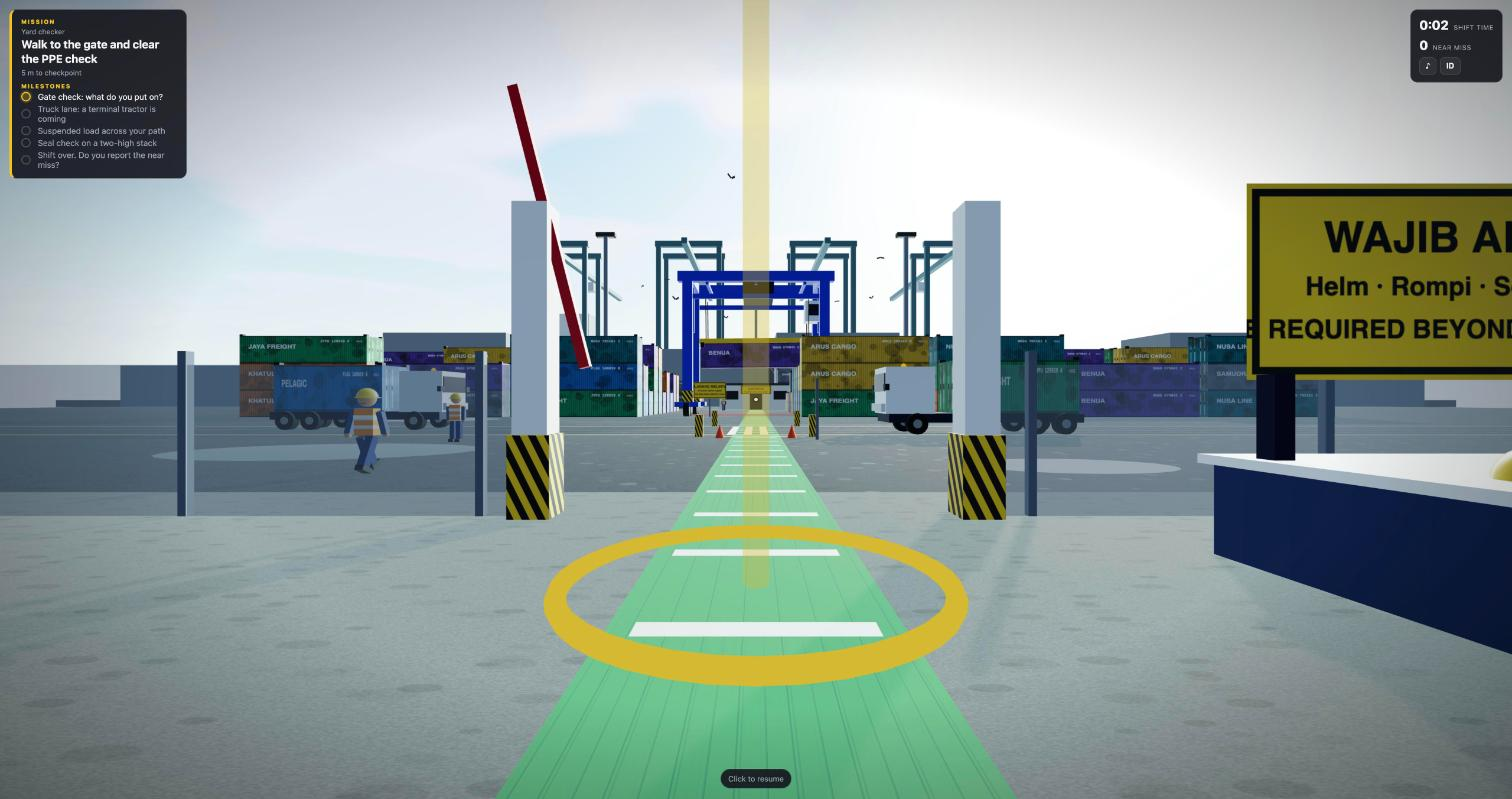
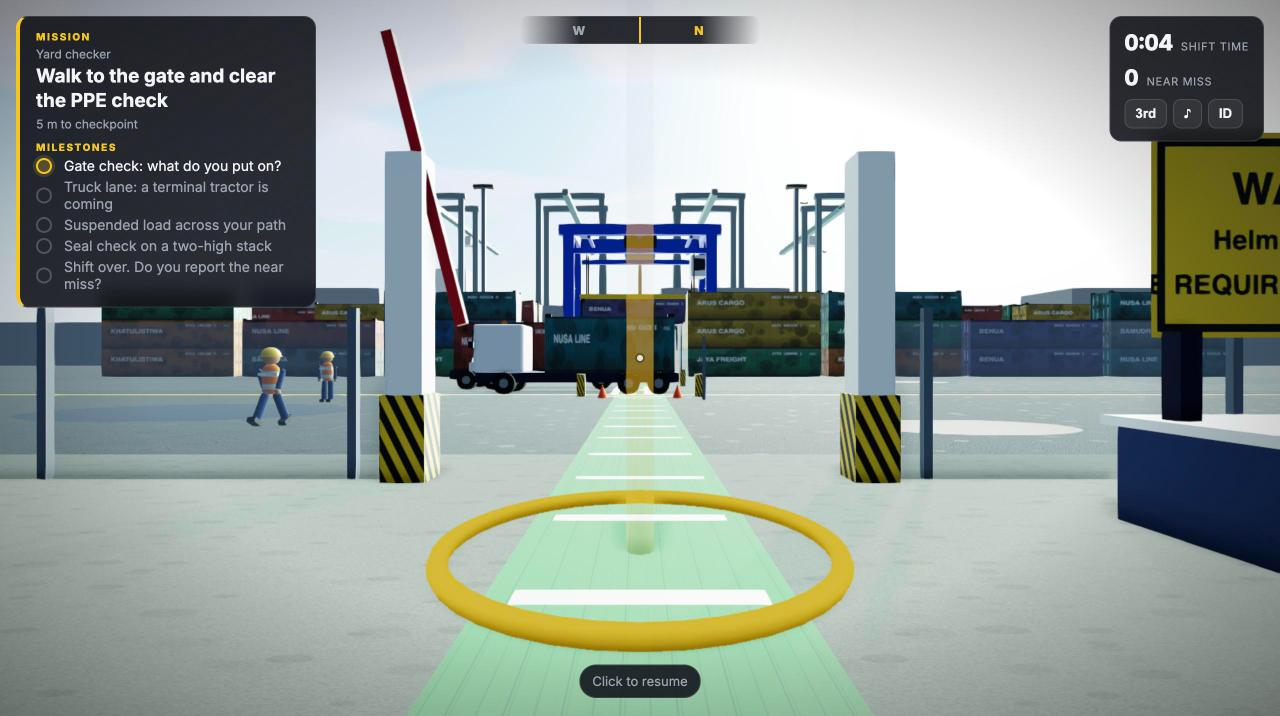
Refresh hero screenshots after cinematic pass; document post stack

diff --git a/devpost/checklist.md b/devpost/checklist.md
@@ -84,6 +84,7 @@ Build mode: fast
 - App map generated at `devpost/app-map.html` (reference route, not toured interactively). Activity: focused alternative prepared — the "content as data, behaviour as a state machine" decision with evidence from slice 4. Reflection question not yet offered. Learner has not confirmed the wrap-up; nothing is claimed as learned.
 
 ## Revisions
+- Learner: "looks like Roblox". Cinematic pass: GTAO + SMAA post stack, instanced container frames (posts/rails), capsule-limbed workers, asphalt normal map, rounded truck cab with headlights, FOV 64, film grain. Bloom tried and reverted to opt-in (whited out the sky).
 - Learner asked for a third-person view option: body rig follows the player, orbit camera, V key + HUD button, persisted in localStorage. Hidden during replays. Crosshair hidden in third person.
 - Slices 1–3 were built in one session by the agent from the approved spec; headless verification replaced the per-slice learner check.
 - After slice 3 the learner asked for: role selection with different flows, interaction beyond walking (keys to perform actions), a richer interface (mission/milestones), bigger decision text, sky, faces and limb animation, port sounds, birds, a better sun, a landing page in the style of modern product sites, and fuller documentation. Scope, PRD and spec were updated; slices 4–6 added.

diff --git a/docs/ARCHITECTURE.md b/docs/ARCHITECTURE.md
@@ -64,10 +64,13 @@ DOM only. Mission panel (role, objective, distance, milestone list), status (tim
 ### `audio.js`
 WebAudio graph created on the first click: brown-noise wind through a wandering low-pass, three detuned sawtooth diesel oscillators, scheduled gull chirps (triangle sweeps), ship horn (two sawtooths), reversing beeper (square), impact (sine drop + square burst). No files.
 
+### `post.js`
+EffectComposer: RenderPass → GTAOPass (ground-truth ambient occlusion, 12 samples, denoised) → OutputPass (ACES + sRGB) → SMAAPass. Bloom is opt-in (`?bloom=1`) because the Sky shader and sun sprite sit far above 1.0 in linear light. `?fx=0` bypasses the composer for weak GPUs.
+
 ## Render budget
 - Draw calls ≈ 700 (containers 6-material boxes dominate; castings batched).
 - Shadow map 4096², one directional light, PCF soft. Pixel ratio capped at 1.5.
-- 60 fps on an M-series laptop; ~30–45 fps on integrated graphics at 1080p. Drop `sun.shadow.mapSize` to 2048 for low-end machines.
+- Pixel ratio capped at 1.25 because GTAO runs full-res. 60 fps on an M-series laptop with the composer; use `?fx=0` on integrated graphics.
 
 ## Failure modes
 | Breaks | User sees |

diff --git a/README.md b/README.md
@@ -132,6 +132,7 @@ Query parameters on `/play/` so you can jump to any moment for a screenshot or t
 | `/play/?at=1&action=1` | Checkpoint 1's action step |
 | `/play/?end=1` | The shift report with sample results |
 | `/play/?shot=1` | Skip the start screen, stand at spawn |
+| `/play/?fx=0` | Disable post-processing (AO/SMAA) on weak GPUs |
 
 See [docs/DEMO-GUIDE.md](docs/DEMO-GUIDE.md) for a shot list.
 
@@ -209,7 +210,7 @@ _Link to be added at submission._
 | Desktop only (pointer lock, keyboard) | Touch controls |
 | Third-person camera has no wall collision | Spring-arm raycast against colliders |
 | One terminal scene | Petrochemical plant and mine haul road from the same hazard format |
-| Procedural low-poly geometry | Optional GLTF assets (Kenney CC0) behind the same `makeContainer` / `makeTruck` API |
+| Procedural geometry and canvas textures | CC0 HDRI + PBR textures (Poly Haven) and optional GLTF props behind the same `makeContainer` / `makeTruck` API |
 | No persistence beyond language | Instructor view: which checkpoints a cohort gets wrong |
 
 ## Documentation
